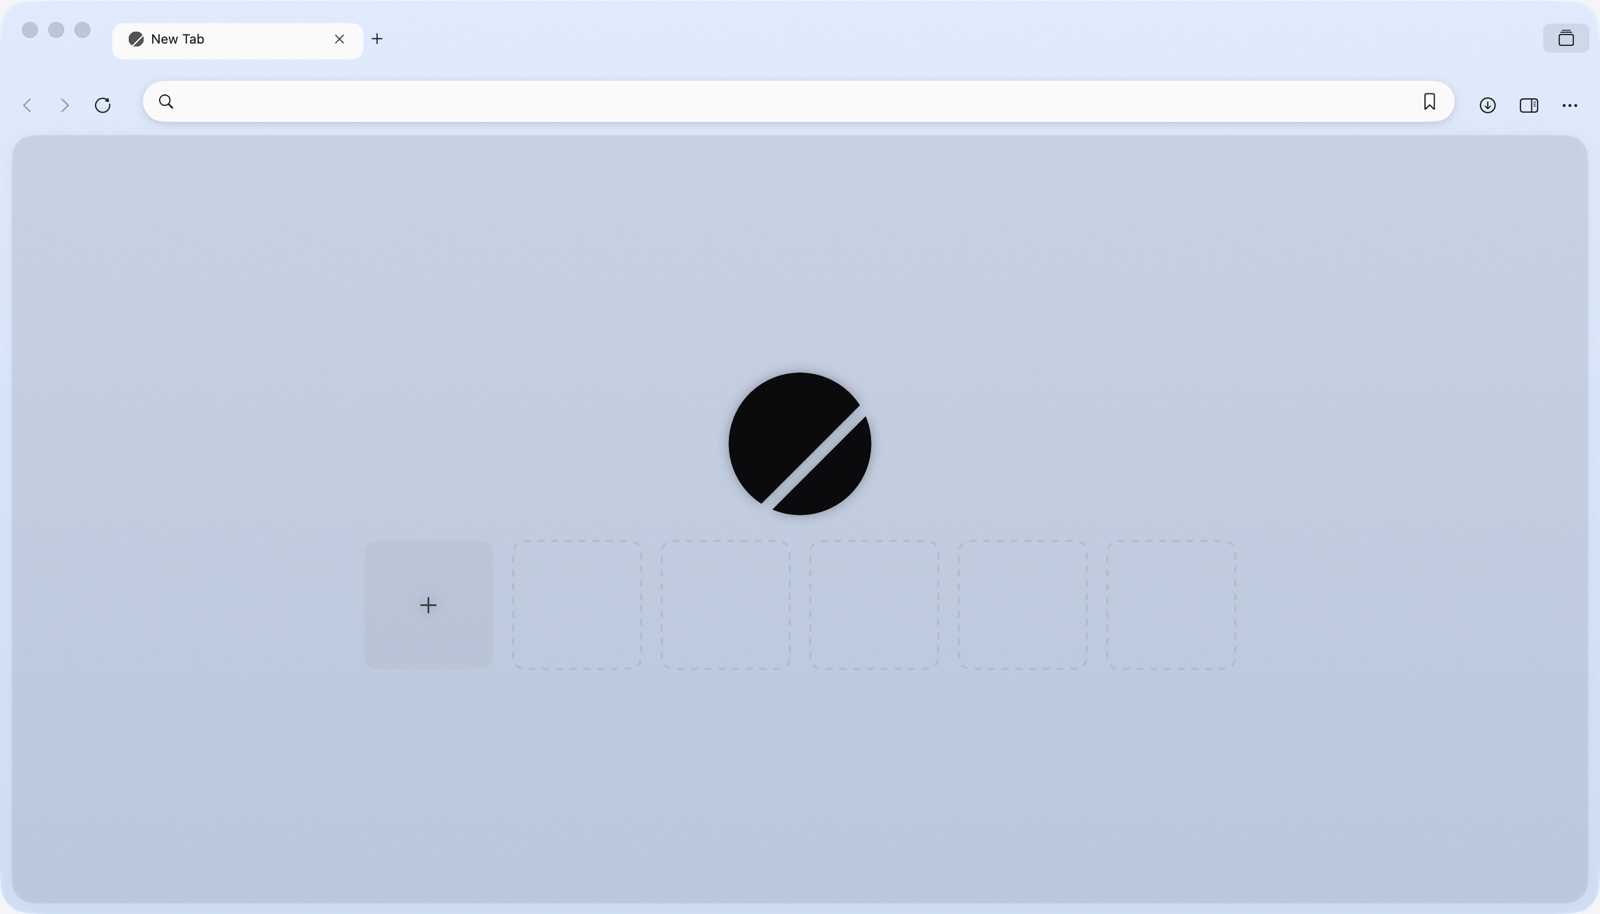
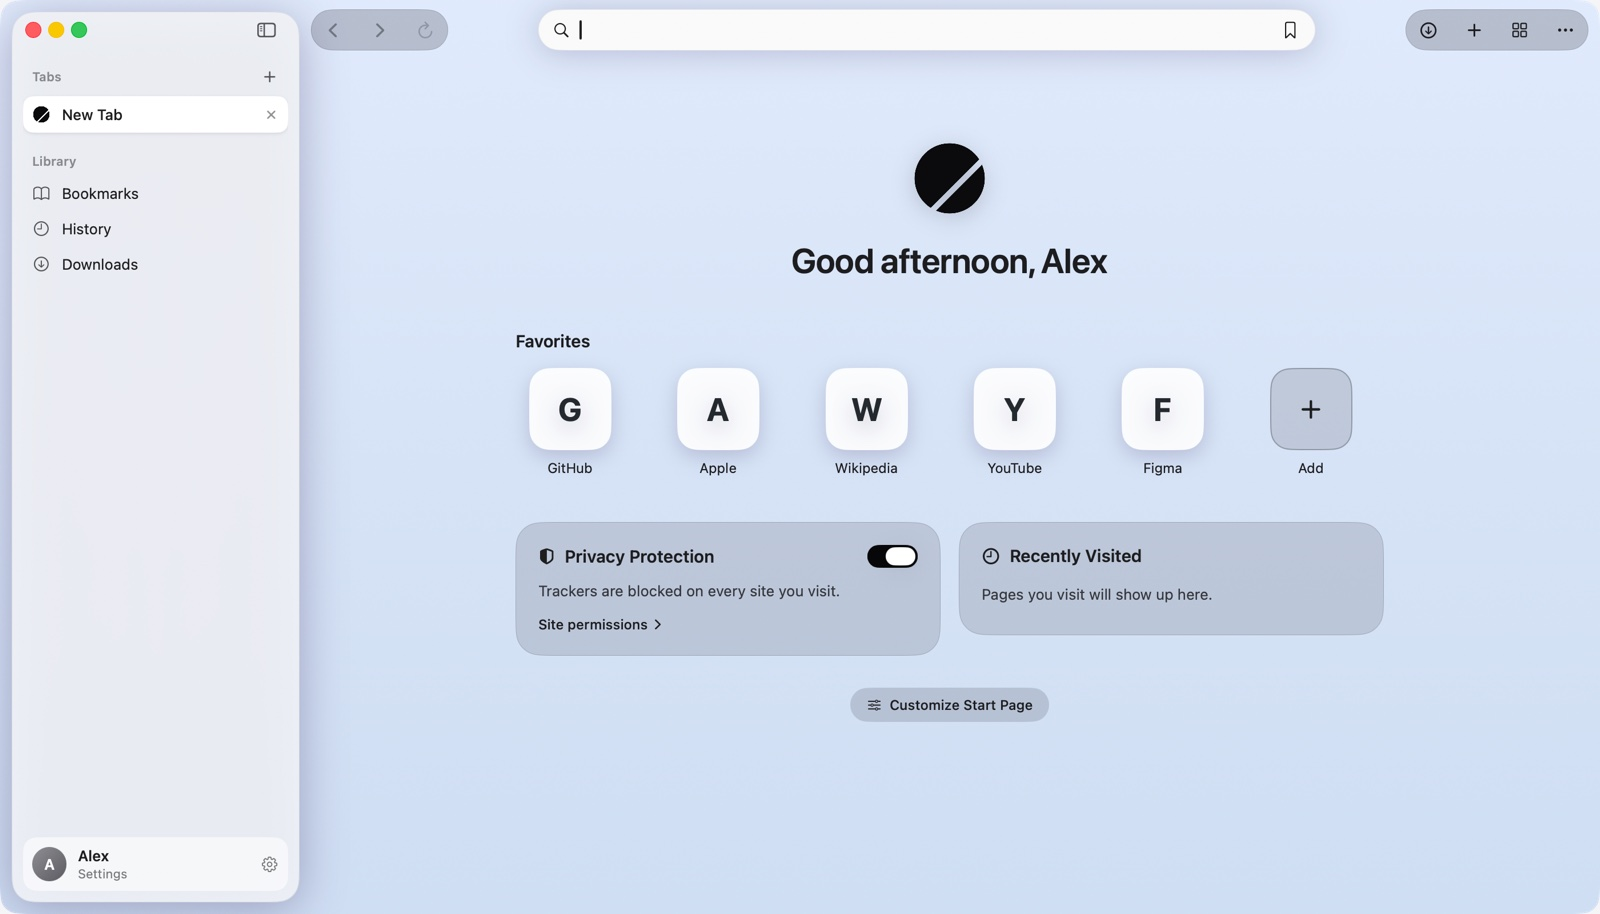
Update screenshots and copy for the redesigned Ovra

diff --git a/app/page.tsx b/app/page.tsx
@@ -11,6 +11,9 @@ const features = [
   { title: "A smarter address bar", text: "Suggestions from the web and your own history as you type." },
   { title: "Automatic updates", text: "New versions install themselves, so you're always on the latest Ovra." },
   { title: "Native to the Mac", text: "Written in Swift on Apple's WebKit, so it feels at home on macOS." },
+  { title: "Tabs in a sidebar", text: "Your tabs and library live in a glass sidebar. Hide it when you want the whole window." },
+  { title: "Back up and move", text: "Save your settings, themes, favorites and bookmarks to one file and restore them on any Mac." },
+  { title: "Privacy at a glance", text: "Click the shield in the address bar to see cookies and storage for a site, and clear them in one click." },
 ];
 
 export default function Home() {
@@ -42,7 +45,7 @@ export default function Home() {
 
             <Image
               src="/shots/theme-aurora.jpg"
-              alt="Ovra's new tab page"
+              alt="Ovra's start page with the tab sidebar"
               width={2000}
               height={1143}
               priority
@@ -59,15 +62,15 @@ export default function Home() {
               Blocks the junk before it loads.
             </h2>
             <p className="fade-up mx-auto mt-6 max-w-[52ch] text-balance text-[19px] text-white/65">
-              Ads and trackers are stopped by default, using DuckDuckGo&apos;s Tracker Radar. Fingerprinting
-              protection makes you harder to follow from site to site. Pages load faster because there&apos;s less to
-              load.
+              Ads and trackers are stopped by default, using DuckDuckGo&apos;s Tracker Radar, including known
+              fingerprinting scripts. You&apos;re harder to follow from site to site, and pages load faster because
+              there&apos;s less to load.
             </p>
             <div className="mx-auto mt-14 grid max-w-[760px] gap-4 text-start sm:grid-cols-3">
               {[
                 ["Ad blocking", "On from the first launch. Switch it off anytime in Settings."],
                 ["Tracker blocking", "Known trackers are blocked across every site you visit."],
-                ["Fingerprint resistance", "Fewer signals for sites to identify your device."],
+                ["Fingerprinting scripts", "Known fingerprinting scripts are blocked along with trackers."],
               ].map(([title, text]) => (
                 <div key={title} className="fade-up rounded-[22px] bg-white/[0.08] p-6">
                   <h3 className="text-[19px] font-semibold">{title}</h3>
@@ -83,7 +86,8 @@ export default function Home() {
           <div className="mx-auto max-w-[1024px] px-5">
             <h2 className="fade-up text-[clamp(2.5rem,6vw,4rem)] font-semibold leading-[1.05] tracking-[-0.015em]">Make it yours.</h2>
             <p className="fade-up mx-auto mt-5 max-w-[44ch] text-balance text-[19px] text-steel">
-              Pick a theme and the whole window follows, from the tabs to the new tab page. Or build your own gradient.
+              Pick a theme and the whole window follows, from the sidebar to the start page. Or build your own with up
+              to four colors, and share it with friends as a file.
             </p>
             <div className="mt-12">
               <ThemeSwitcher />

diff --git a/components/theme-switcher.tsx b/components/theme-switcher.tsx
@@ -5,11 +5,11 @@ import { useState } from "react";
 
 // Real screenshots of Ovra's new tab page, one per built-in theme
 const themes = [
-  { id: "aurora", name: "Aurora", swatch: "linear-gradient(135deg,#6a7cf0,#7b4fb0)" },
-  { id: "forest-bloom", name: "Forest Bloom", swatch: "linear-gradient(135deg,#0f8c7e,#2fd16d)" },
-  { id: "icy-mist", name: "Icy Mist", swatch: "linear-gradient(135deg,#dfe8f7,#b9c8de)" },
-  { id: "midnight-blue", name: "Midnight Blue", swatch: "linear-gradient(135deg,#0e1a1f,#24434f)" },
-  { id: "velvet-dusk", name: "Velvet Dusk", swatch: "linear-gradient(135deg,#4b12d8,#8a2be2)" },
+  { id: "aurora", name: "Aurora", swatch: "linear-gradient(135deg,#5a68d6,#5a3590)" },
+  { id: "forest-bloom", name: "Forest Bloom", swatch: "linear-gradient(135deg,#2f6b55,#1b3e36)" },
+  { id: "icy-mist", name: "Icy Mist", swatch: "linear-gradient(135deg,#e0eafc,#cfdef3)" },
+  { id: "midnight-blue", name: "Midnight Blue", swatch: "linear-gradient(135deg,#2a3f7a,#141d3d)" },
+  { id: "velvet-dusk", name: "Velvet Dusk", swatch: "linear-gradient(135deg,#84406f,#3f1f4a)" },
 ];
 
 export default function ThemeSwitcher() {
